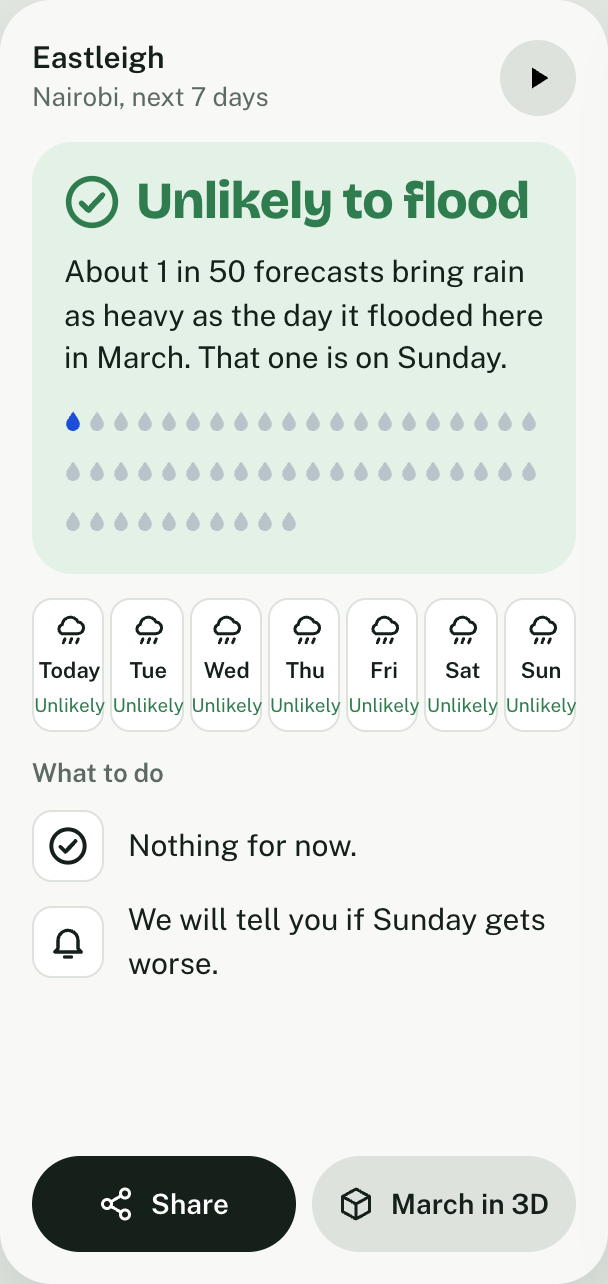
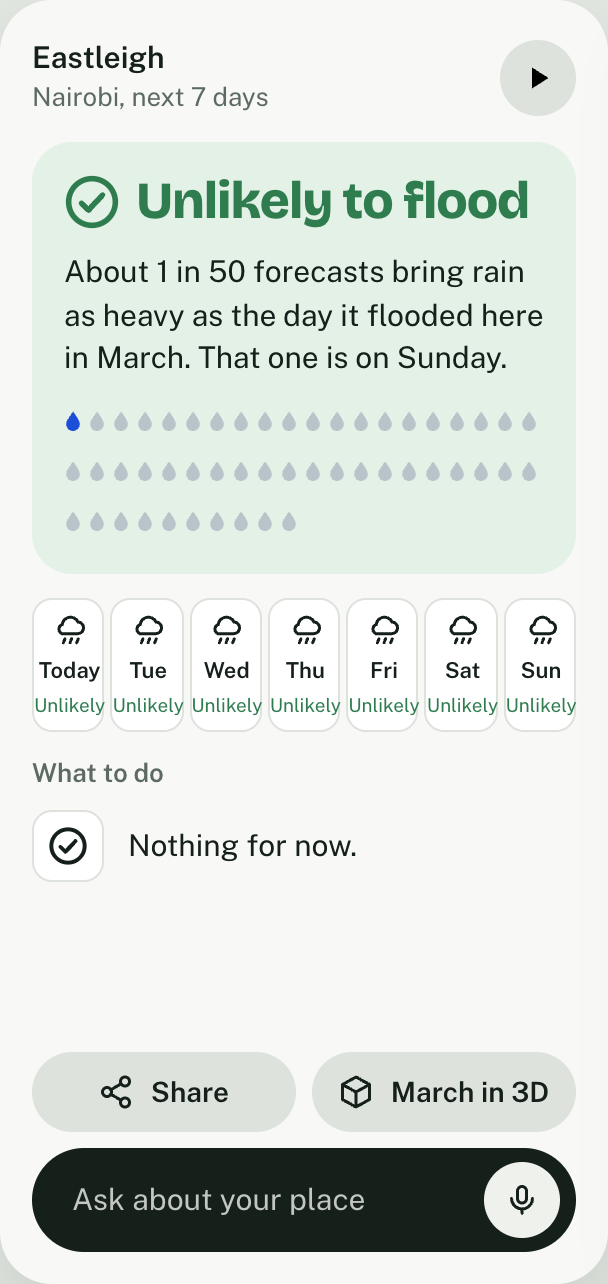
Add the agent screens and the Ask bar on the main screen

diff --git a/design/ask.html b/design/ask.html
@@ -1,0 +1,164 @@
+<!doctype html>
+<html lang="en">
+<head>
+<meta charset="utf-8" />
+<meta name="viewport" content="width=device-width, initial-scale=1" />
+<title>Forewarn agent screens</title>
+<link rel="preconnect" href="https://fonts.googleapis.com" />
+<link rel="preconnect" href="https://fonts.gstatic.com" crossorigin />
+<link href="https://fonts.googleapis.com/css2?family=Bricolage+Grotesque:opsz,wght@12..96,600;12..96,800&family=Public+Sans:wght@400;600&display=swap" rel="stylesheet" />
+<style>
+  /* Forewarn agent: you ask about your place, the agent checks the data and answers with the same
+     cards as the main screen. What it checked is shown, so the answer can be trusted. */
+  :root {
+    --bg: #e3e7e2; --paper: #f8f9f6; --ink: #16201b; --muted: #5d6a63; --line: #dde2dc;
+    --water: #1d4ed8; --water-soft: #e3eafc;
+    --green: #2f7d4f; --green-soft: #e3f1e7; --amber: #b86e00; --amber-soft: #fbefd9;
+    --display: 'Bricolage Grotesque', system-ui, sans-serif; --text: 'Public Sans', system-ui, sans-serif;
+  }
+  * { box-sizing: border-box; }
+  body { margin: 0; background: var(--bg); color: var(--ink); font: 15px/1.45 var(--text); -webkit-font-smoothing: antialiased; }
+  header { max-width: 1240px; margin: 0 auto; padding: 36px 16px 0; }
+  h1 { font: 800 36px/1.05 var(--display); letter-spacing: -0.02em; margin: 0 0 8px; }
+  header p { margin: 0; color: var(--muted); max-width: 64ch; }
+  .row { max-width: 1240px; margin: 0 auto; padding: 24px 16px 60px; display: grid; grid-template-columns: repeat(auto-fit, minmax(300px, 1fr)); gap: 24px; justify-items: center; align-items: start; }
+  figure { margin: 0; width: 100%; max-width: 360px; }
+  figcaption { padding: 12px 4px 0; }
+  figcaption b { font: 600 18px/1.2 var(--display); display: block; }
+  figcaption span { color: var(--muted); font-size: 14px; }
+  .phone { position: relative; width: 100%; aspect-ratio: 360 / 760; background: var(--paper); border-radius: 26px; overflow: hidden; box-shadow: 0 16px 36px rgba(22,32,27,.13); display: flex; flex-direction: column; }
+  .head { padding: 16px 16px 10px; display: flex; justify-content: space-between; align-items: center; border-bottom: 1px solid var(--line); }
+  .head b { font-weight: 600; } .head small { display: block; color: var(--muted); font-size: 13px; }
+  .chat { flex: 1; padding: 14px 14px 0; display: flex; flex-direction: column; gap: 10px; overflow: hidden; }
+  .me { align-self: flex-end; max-width: 85%; background: var(--ink); color: #fff; padding: 10px 13px; border-radius: 18px 18px 4px 18px; }
+  .me .voice { display: flex; align-items: center; gap: 8px; font-size: 12px; opacity: .75; margin-bottom: 4px; }
+  .wave { display: flex; gap: 2px; align-items: center; height: 14px; }
+  .wave i { width: 2px; background: #fff; border-radius: 1px; }
+  .steps { display: grid; gap: 5px; font-size: 13px; color: var(--muted); padding: 2px 2px; }
+  .steps div { display: flex; gap: 8px; align-items: center; }
+  .steps svg { width: 15px; height: 15px; color: var(--green); flex: none; }
+  .bot { align-self: flex-start; max-width: 94%; background: #fff; border: 1px solid var(--line); padding: 11px 13px; border-radius: 18px 18px 18px 4px; display: grid; gap: 9px; }
+  .bot p { margin: 0; }
+  .mini { border-radius: 14px; padding: 10px 12px; display: grid; gap: 4px; }
+  .mini.green { background: var(--green-soft); } .mini.amber { background: var(--amber-soft); }
+  .mini b { font: 800 19px/1.1 var(--display); }
+  .mini.green b { color: var(--green); } .mini.amber b { color: var(--amber); }
+  .mini span { font-size: 13px; }
+  .depth { display: flex; gap: 10px; align-items: center; border-radius: 14px; background: var(--water-soft); padding: 9px 12px; font-size: 13px; }
+  .depth b { font: 800 22px/1 var(--display); color: var(--water); }
+  .chips { display: flex; flex-wrap: wrap; gap: 6px; }
+  .chip { border: 1px solid var(--line); background: #fff; border-radius: 16px; padding: 6px 11px; font: 600 13px/1 var(--text); }
+  .chip.on { background: var(--ink); color: #fff; border-color: var(--ink); }
+  .ask { margin: 10px 14px 14px; height: 52px; border-radius: 26px; background: var(--ink); color: #eef1ec; display: flex; align-items: center; gap: 12px; padding: 0 8px 0 20px; }
+  .ask > span:first-child { flex: 1; opacity: .75; }
+  .mic { width: 38px; height: 38px; border-radius: 50%; background: #eef1ec; display: grid; place-items: center; }
+  .mic svg { width: 18px; height: 18px; color: var(--ink); }
+  .mic.live { background: var(--water); } .mic.live svg { color: #fff; }
+  .note { font-size: 11px; color: var(--muted); text-align: center; margin: -6px 14px 10px; }
+  .draft { border: 2px dashed var(--amber); border-radius: 16px; padding: 12px; display: grid; gap: 8px; background: #fff; }
+  .draft h4 { margin: 0; font-size: 12px; color: var(--amber); font-weight: 600; }
+  .sms { background: #eef1ec; border-radius: 12px; padding: 10px; font-size: 14px; }
+  .who { font-size: 12px; color: var(--muted); }
+  .two { display: flex; gap: 8px; }
+  .two button { flex: 1; height: 42px; border-radius: 21px; border: 0; font: 600 14px/1 var(--text); }
+  .two .go { background: var(--ink); color: #fff; } .two .no { background: var(--line); color: var(--ink); }
+  .home-ask { padding: 16px; display: flex; flex-direction: column; gap: 12px; flex: 1; }
+  .home-ask h2 { font: 800 26px/1.1 var(--display); margin: 0; letter-spacing: -0.02em; }
+  .home-ask .sug { display: grid; gap: 8px; }
+  .home-ask .sug div { background: #fff; border: 1px solid var(--line); border-radius: 14px; padding: 12px; }
+  .home-ask .sug small { display: block; color: var(--muted); font-size: 12px; margin-top: 2px; }
+  .listening { margin-top: auto; display: grid; justify-items: center; gap: 10px; padding-bottom: 6px; }
+  .listening .big { width: 84px; height: 84px; border-radius: 50%; background: var(--water); display: grid; place-items: center; box-shadow: 0 0 0 12px var(--water-soft); }
+  .listening .big svg { width: 34px; height: 34px; color: #fff; }
+  .listening span { color: var(--muted); font-size: 13px; }
+</style>
+</head>
+<body>
+<header>
+  <h1>Forewarn: the agent</h1>
+  <p>Ask about your place by voice or text. The agent checks the forecast, your flood line and the last flood, then answers in plain words with the same cards as the main screen. It shows what it checked. Warnings to other people are drafts until a person approves them. Agent wording here is a draft for design, not a Muse Spark output yet. The numbers are real.</p>
+</header>
+<main class="row" id="row"></main>
+
+<script type="module">
+const get = (u) => fetch(u).then((r) => r.json());
+const [F, M] = await Promise.all(['futures-eastleigh', 'march-eastleigh'].map((n) => get(`data/${n}.json`)));
+const LINE = Math.round(F.trigger_mm);
+const sun = F.days.length - 1;
+const med = (j) => { const v = F.daily.map((m) => m[j]).sort((a, b) => a - b); return v[25]; };
+const peak = Math.max(...M.cm.map((h) => h[30 * 61 + 30]));
+const svg = {
+  mic: '<svg viewBox="0 0 24 24" fill="none" stroke="currentColor" stroke-width="2" stroke-linecap="round"><rect x="9" y="3" width="6" height="11" rx="3"/><path d="M5 11a7 7 0 0 0 14 0M12 18v3"/></svg>',
+  tick: '<svg viewBox="0 0 24 24" fill="none" stroke="currentColor" stroke-width="2.6" stroke-linecap="round" stroke-linejoin="round"><path d="M5 12.5l4.5 4.5L19 7.5"/></svg>',
+};
+const wave = () => `<span class="wave">${[6, 10, 14, 8, 12, 5, 11, 7, 13, 6].map((h) => `<i style="height:${h}px"></i>`).join('')}</span>`;
+const askBar = (live) => `<div class="ask"><span>${live ? 'Listening…' : 'Ask about your place'}</span><span class="mic ${live ? 'live' : ''}">${svg.mic}</span></div>`;
+const head = (sub) => `<div class="head"><div><b>Eastleigh</b><small>${sub}</small></div></div>`;
+const phones = [];
+
+phones.push({
+  title: '1. Ask, by voice or text',
+  note: 'The Ask bar sits on the main screen. Tap the mic and speak. Suggestions come from your place and this week.',
+  html: `${head('Nairobi')}
+  <div class="home-ask">
+    <h2>What do you want to know?</h2>
+    <div class="sug">
+      <div>Will my street flood this weekend?<small>Sunday has one long shot</small></div>
+      <div>Can I drive to work on Monday?<small>Checks the road, not only your pin</small></div>
+      <div>How bad was it here in March?<small>The last flood at your door</small></div>
+    </div>
+    <div class="listening"><div class="big">${svg.mic}</div><span>Speak in English. More languages after testing.</span></div>
+  </div>`,
+});
+
+phones.push({
+  title: '2. The answer, with what it checked',
+  note: 'Four real checks, then a plain answer and the same card as the main screen. Every number comes from a tool, not from the model\'s memory.',
+  html: `${head('Asked just now')}
+  <div class="chat">
+    <div class="me"><div class="voice">${wave()} 0:04</div>Will my street flood this weekend?</div>
+    <div class="steps">
+      <div>${svg.tick}Found your pin in Eastleigh, Nairobi</div>
+      <div>${svg.tick}Read 51 forecasts for the next 7 days</div>
+      <div>${svg.tick}Compared them with the ${LINE} mm that flooded here in March</div>
+      <div>${svg.tick}Looked up the March water at your pin</div>
+    </div>
+    <div class="bot">
+      <p>Probably not. Saturday looks wet but safe. Sunday has one long shot.</p>
+      <div class="mini green"><b>Unlikely to flood</b><span>About 1 in 50 forecasts bring ${LINE} mm or more on Sunday. Most say about ${Math.round(med(sun))} mm.</span></div>
+      <div class="depth"><b>${peak} cm</b><span>If it did happen, March is a guide: the water reached shin deep at your pin.</span></div>
+      <p>I will tell you if Sunday gets worse.</p>
+    </div>
+    <div class="chips"><span class="chip">Show me in 3D</span><span class="chip">Warn my family</span><span class="chip">Follow this place</span></div>
+  </div>
+  ${askBar(false)}`,
+});
+
+phones.push({
+  title: '3. It acts, but a person approves',
+  note: 'The agent drafts a warning and who gets it. Nothing goes out until you tap Send. Meta\'s rules need a person to check safety messages, and this is the place to show it.',
+  html: `${head('Asked just now')}
+  <div class="chat">
+    <div class="me">Warn my family if Sunday gets worse.</div>
+    <div class="steps">
+      <div>${svg.tick}Set a check every 6 hours until Sunday</div>
+      <div>${svg.tick}Trigger: 1 in 4 forecasts over ${LINE} mm</div>
+    </div>
+    <div class="bot">
+      <p>Done. If that happens, I will write a message like this and ask you before it goes out:</p>
+      <div class="draft">
+        <h4>Draft, not sent</h4>
+        <div class="sms">Forewarn: heavy rain likely in Eastleigh on Sunday. In March, water reached shin deep here. Move papers and phones up. Avoid the low road after dark.</div>
+        <div class="who">To: Mum, Ken (WhatsApp)</div>
+        <div class="two"><button class="go">Send</button><button class="no">Edit</button></div>
+      </div>
+    </div>
+  </div>
+  ${askBar(false)}`,
+});
+
+document.getElementById('row').innerHTML = phones.map((p) => `<figure><div class="phone">${p.html}</div><figcaption><b>${p.title}</b><span>${p.note}</span></figcaption></figure>`).join('');
+window.__ready = true;
+</script>
+</body>
+</html>

diff --git a/design/verdict.html b/design/verdict.html
@@ -71,6 +71,12 @@
   .bottom { margin-top: auto; display: flex; gap: 8px; padding-bottom: 16px; }
   .btn { flex: 1; white-space: nowrap; height: 48px; border-radius: 24px; border: 0; font: 600 14px/1 var(--text); display: flex; align-items: center; justify-content: center; gap: 8px; }
   .btn svg { width: 18px; height: 18px; }
+  .bottom.stack { flex-direction: column; }
+  .two-small { display: flex; gap: 8px; } .two-small .btn { height: 40px; }
+  .askbar { height: 52px; border-radius: 26px; background: var(--ink); color: #eef1ec; display: flex; align-items: center; padding: 0 8px 0 20px; }
+  .askbar span { flex: 1; opacity: .8; }
+  .askbar i { width: 38px; height: 38px; border-radius: 50%; background: #eef1ec; color: var(--ink); display: grid; place-items: center; }
+  .askbar svg { width: 18px; height: 18px; }
   .btn.dark { background: var(--ink); color: #fff; } .btn.light { background: var(--line); color: var(--ink); }
 
   /* day detail: likely range against the flood line */
@@ -127,6 +133,7 @@ const svg = {
   drop: '<svg viewBox="0 0 13 16"><path d="M6.5 1C4 5 1.5 7.6 1.5 10.3a5 5 0 0 0 10 0C11.5 7.6 9 5 6.5 1z" fill="currentColor"/></svg>',
   ok: '<svg viewBox="0 0 24 24" fill="none" stroke="currentColor" stroke-width="2.4" stroke-linecap="round" stroke-linejoin="round"><circle cx="12" cy="12" r="10"/><path d="M7.5 12.5l3 3 6-6.5"/></svg>',
   warn: '<svg viewBox="0 0 24 24" fill="none" stroke="currentColor" stroke-width="2.4" stroke-linecap="round" stroke-linejoin="round"><path d="M12 3l10 18H2z"/><path d="M12 10v5M12 18v.2"/></svg>',
+  mic: '<svg viewBox="0 0 24 24" fill="none" stroke="currentColor" stroke-width="2" stroke-linecap="round"><rect x="9" y="3" width="6" height="11" rx="3"/><path d="M5 11a7 7 0 0 0 14 0M12 18v3"/></svg>',
   play: '<svg viewBox="0 0 24 24" fill="currentColor"><path d="M8 5v14l11-7z"/></svg>',
   share: '<svg viewBox="0 0 24 24" fill="none" stroke="currentColor" stroke-width="2" stroke-linecap="round" stroke-linejoin="round"><circle cx="18" cy="5" r="3"/><circle cx="6" cy="12" r="3"/><circle cx="18" cy="19" r="3"/><path d="M8.6 13.5l6.8 4M15.4 6.5l-6.8 4"/></svg>',
   cube: '<svg viewBox="0 0 24 24" fill="none" stroke="currentColor" stroke-width="2" stroke-linejoin="round"><path d="M12 2l9 5v10l-9 5-9-5V7z"/><path d="M12 12l9-5M12 12v10M12 12L3 7"/></svg>',
@@ -170,9 +177,8 @@ phones.push({
   ${strip(E.map((x) => ({ lv: x.lv, name: dayShort(x.d, x.j), icon: rainIcon(x.med) })))}
   <div class="todo"><h3>What to do</h3>
     <div class="act"><i>${svg.ok}</i>Nothing for now.</div>
-    <div class="act"><i>${svg.bell}</i>We will tell you if Sunday gets worse.</div>
-  </div>
-  <div class="bottom"><button class="btn dark">${svg.share}Share</button><button class="btn light">${svg.cube}March in 3D</button></div>`,
+      </div>
+  <div class="bottom stack"><div class="two-small"><button class="btn light">${svg.share}Share</button><button class="btn light">${svg.cube}March in 3D</button></div><div class="askbar"><span>Ask about your place</span><i>${svg.mic}</i></div></div>`,
 });
 
 // 2. main screen, a real amber: Durban, replayed from 5 days before the 25 Feb 2025 flood
